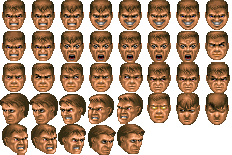
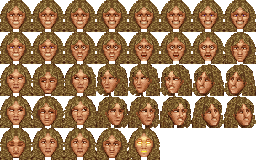
[feature] replace DOOM face with custom portrait and update status bar face tile size to 32x32 for better fit

diff --git a/public/scripts/pixel-scale.js b/public/scripts/pixel-scale.js
@@ -1,26 +1,64 @@
+/**
+ * pixel-scale.js
+ * ----------------
+ * Central service for managing pixel scaling across all pixel-art canvases.
+ *
+ * Purpose:
+ * - Ensures consistent pixel size for every component (status bar, name, backgrounds).
+ * - Publishes scale changes to subscribers (other scripts) so they can redraw
+ *   when pixel size updates.
+ * - Exposes config flags for responsive scaling or fixed scaling.
+ *
+ * Modes:
+ * - Fixed scale (preferred for retro HUD): set `fixedScale` to an integer (e.g., 2, 3, 4).
+ *   Every canvas will render at that multiplier regardless of viewport width.
+ * - Responsive scale: leave `fixedScale` null. Scale will be calculated from
+ *   viewport width and CFG.baseWidth, clamped by minScale/maxScale.
+ *
+ * Key Configs:
+ * - baseWidth: intrinsic design width of your art (e.g., name.png’s 198px width).
+ * - maxWidthRatio: % of viewport to occupy if responsive scaling is used.
+ * - minScale / maxScale: clamps to avoid pixels being too tiny or too huge.
+ * - cssVar: the CSS variable injected (`--pixel-scale`) so CSS and JS agree.
+ * - fixedScale: force integer multiplier (disables responsive scaling).
+ * - globalMultiplier: fine-tune shrink/grow factor (applied to responsive only).
+ * - targetWidthPx: override viewport ratio; pick a fixed CSS width target.
+ *
+ * Usage:
+ *   import { initPixelScale, getPixelScale, onPixelScaleChange } from "/scripts/pixel-scale.js";
+ *   initPixelScale({ fixedScale: 4, minScale: 1, maxScale: 6 });
+ *
+ *   const scale = getPixelScale(); // read once
+ *   onPixelScaleChange((s) => console.log("new scale", s)); // subscribe to changes
+ */
+
 const CFG = {
-  baseWidth: 198,
-  maxWidthRatio: 0.8,
-  minScale: 1,
-  maxScale: 8,
-  cssVar: '--pixel-scale',
-  fixedScale: null,        // NEW: when set to an integer, use this exactly
-  globalMultiplier: 1.0,   // (optional) keep if you like; ignored when fixedScale set
-  targetWidthPx: null,     // (optional) ignored when fixedScale set
+  baseWidth: 198,           // design pixel width of your art (e.g., name.png)
+  maxWidthRatio: 0.8,       // responsive: % of viewport to target
+  minScale: 1,              // minimum pixel multiplier allowed
+  maxScale: 8,              // maximum pixel multiplier allowed
+  cssVar: '--pixel-scale',  // CSS var injected on <html> for styling
+  fixedScale: null,         // when set, use this exact multiplier
+  globalMultiplier: 1.0,    // applied in responsive mode only
+  targetWidthPx: null,      // override viewport ratio with a fixed target width
 };
 
-let scale = 4;
-const listeners = new Set();
+let scale = 4;                // current pixel scale (shared globally)
+const listeners = new Set();  // callbacks to notify when scale changes
 
+// Clamp helper
 function clamp(n, a, b) { return Math.max(a, Math.min(b, n)); }
 
+/**
+ * Compute the new scale based on config + viewport.
+ * - If fixedScale is set, always use it.
+ * - Otherwise, use responsive math: viewport * ratio / baseWidth.
+ */
 function computeScale() {
-  // NEW: absolute lock
   if (Number.isInteger(CFG.fixedScale) && CFG.fixedScale > 0) {
     return clamp(CFG.fixedScale, CFG.minScale, CFG.maxScale);
   }
 
-  // otherwise compute responsive scale (existing behavior, kept for flexibility)
   const targetCssWidth = (typeof CFG.targetWidthPx === 'number' && CFG.targetWidthPx > 0)
     ? CFG.targetWidthPx
     : window.innerWidth * CFG.maxWidthRatio;
@@ -30,20 +68,33 @@ function computeScale() {
   return clamp(s, CFG.minScale, CFG.maxScale);
 }
 
+/**
+ * Apply a new scale:
+ * - Update internal variable
+ * - Push to CSS var for styling
+ * - Notify subscribers
+ */
 function apply(newScale) {
   scale = newScale;
   document.documentElement.style.setProperty(CFG.cssVar, String(scale));
   listeners.forEach(fn => { try { fn(scale); } catch {} });
 }
 
+// Recalculate scale and apply
 function recalc() { apply(computeScale()); }
 
+// Debounced resize handler
 let t = null;
 function onResize() {
   clearTimeout(t);
   t = setTimeout(recalc, 100);
 }
 
+/**
+ * Initialize pixel-scale service.
+ * - Optionally override CFG with passed opts.
+ * - Computes initial scale and attaches resize listener.
+ */
 export function initPixelScale(opts = {}) {
   Object.assign(CFG, opts);
   recalc();
@@ -51,7 +102,15 @@ export function initPixelScale(opts = {}) {
   return scale;
 }
 
+/**
+ * Get current scale multiplier.
+ */
 export function getPixelScale() { return scale; }
+
+/**
+ * Subscribe to scale changes.
+ * - Returns an unsubscribe function.
+ */
 export function onPixelScaleChange(cb) {
   listeners.add(cb);
   return () => listeners.delete(cb);

diff --git a/public/scripts/circuit-background.js b/public/scripts/circuit-background.js
@@ -1,3 +1,34 @@
+/**
+ * circuit-background.js
+ * ----------------------
+ * Renders a retro-style animated circuit board background using multiple canvas layers.
+ *
+ * Layers:
+ * - Dots layer: faint static grid texture for depth.
+ * - Circuit layer: randomly generated paths with endpoints, drawn once offscreen.
+ * - Particle layer: animated particles that travel along circuit paths.
+ *
+ * Core pieces:
+ * - Constants: define colors, speeds, sizes, probabilities.
+ * - Utility fns: random choice, cell math, color selection.
+ * - Data classes:
+ *     Column   → vertical cell occupancy map
+ *     Circuit  → path definition + color scheme
+ *     Circuits → generator + renderer for circuit paths
+ *     Dots     → background dot grid
+ *     Particle → single moving entity along a path
+ *     Particles→ manages + renders all particles
+ *
+ * Runtime:
+ * - init() builds canvases, generates circuits + particles, and kicks off the animation loop.
+ * - startLoop() drives the RAF cycle: update → draw particles → blit to screen.
+ * - On resize: tears down and reinitializes everything.
+ *
+ * Usage:
+ * - Must be loaded after <canvas id="circuitCanvas"> and <canvas id="particleCanvas"> exist.
+ * - Automatically initializes on window.onload and re-inits on resize.
+ */
+
 if (typeof window !== "undefined") {
     // ============================
     // Constants for easy adjustments

diff --git a/public/scripts/status-bar.js b/public/scripts/status-bar.js
@@ -8,7 +8,9 @@
 import { getPixelScale, onPixelScaleChange } from "./pixel-scale.js";
 
 // --- Final face offsets (visual nudge you found) ---
-const FACE_OFFSET = { x: 2, y: -6 }; // source-pixel nudges for your HUD art
+const FACE_OFFSET = { x: 0, y: -7 }; // source-pixel nudges for your HUD art
+const FACE_WIDTH = 32
+const FACE_HEIGHT = 32
 
 // DOM
 const canvas = document.getElementById("statusBarCanvas");
@@ -34,8 +36,8 @@ sctx.imageSmoothingEnabled = false;
 let atlas = null;        // parsed atlas JSON
 let facesReady = false;
 
-// Face placement on the bar (SOURCE pixels, not CSS)
-let faceRect = { x: 0, y: 0, w: 29, h: 31 }; // defaults; updated after load
+// Face placement on the bar
+let faceRect = { x: 0, y: -7, w: FACE_WIDTH, h: FACE_HEIGHT }; // defaults; updated after load
 let currentFace = "idle";
 
 // ===================================
@@ -84,9 +86,9 @@ async function loadBar(src) {
 async function loadFaces() {
   atlas = await fetch(FACES_ATLS).then(r => r.json());
 
-  // Force your actual tile size (29x31), regardless of JSON values (if needed).
-  atlas.tileWidth  = 29;
-  atlas.tileHeight = 31;
+  // Force your actual tile size regardless of JSON values
+  atlas.tileWidth  = FACE_WIDTH;
+  atlas.tileHeight = FACE_HEIGHT;
 
   const img = new Image();
   img.src = FACES_IMG;
